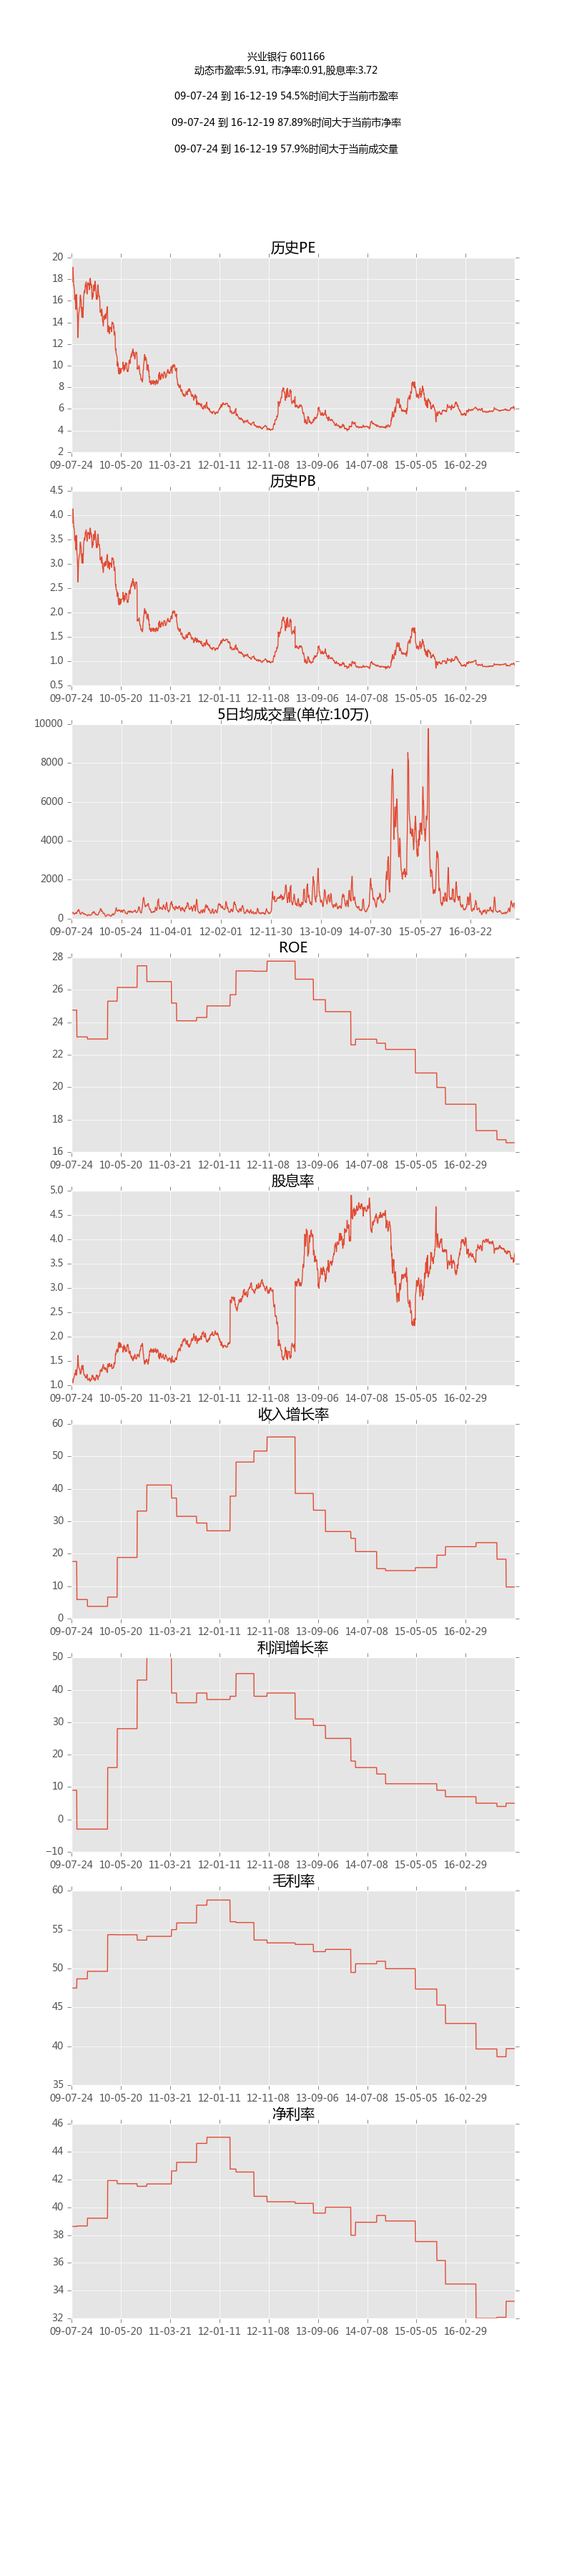
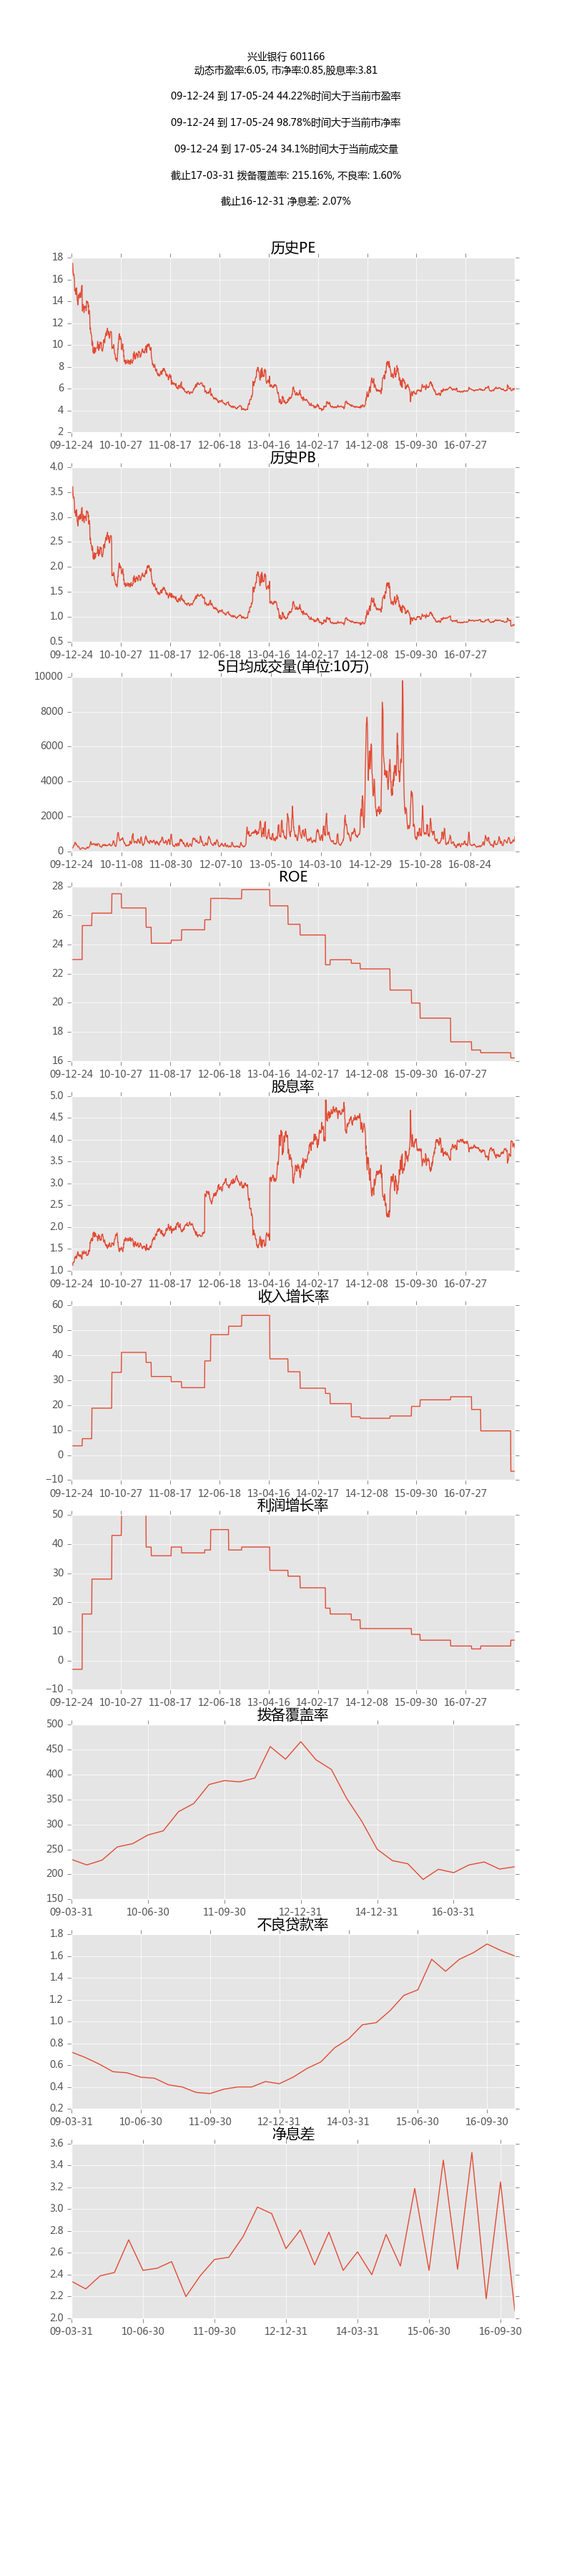
更新说明

diff --git a/README.md b/README.md
@@ -1,9 +1,10 @@
 # 国内股票筛选器
-【感谢雪球和果仁，因为用到了雪球筛选器的接口和果仁历史数据的接口】</br>
+【感谢雪球、果仁、同花顺，因为用到了雪球筛选器的接口、果仁历史数据的接口、同花顺F10的数据】</br>
 该库的目标是通过一些财经类网站股票接口，做价值投资的初筛，生成一些有用的图表，辅助股票投资</br>
 目前完成的功能:</br>
 1、通过雪球筛选器的接口，能添加【近几年ROE、近几年营收、利润、毛利率、净利率，市盈率，市净率等指标】作为筛选条件，查询符合条件的股票。</br>
-2、通过雪球返回的历史数据以及请求果仁补全的数据，画出一些相关指标的变化图表。</br>
+2、通过雪球返回的历史数据以及请求果仁、同花顺补全的数据，画出一些相关指标的变化图表。</br>
+3、dcf，财报下载一些工具</br>
 使用该库前，需要通过浏览器开发者工具或者抓包拿到雪球和果仁登录后请求接口的cookie，创建cookie_xueqiu.txt文件填写雪球的cookie,创建cookie_guoren.txt文件填写果仁的cookie</br>
 下面是目前自动生成的图片样例,拿了兴业做例子</br>
  ![image](https://github.com/pinguo-chexing/stock_discover/blob/master/screenshots/%E5%85%B4%E4%B8%9A%E9%93%B6%E8%A1%8C_601166.png)
